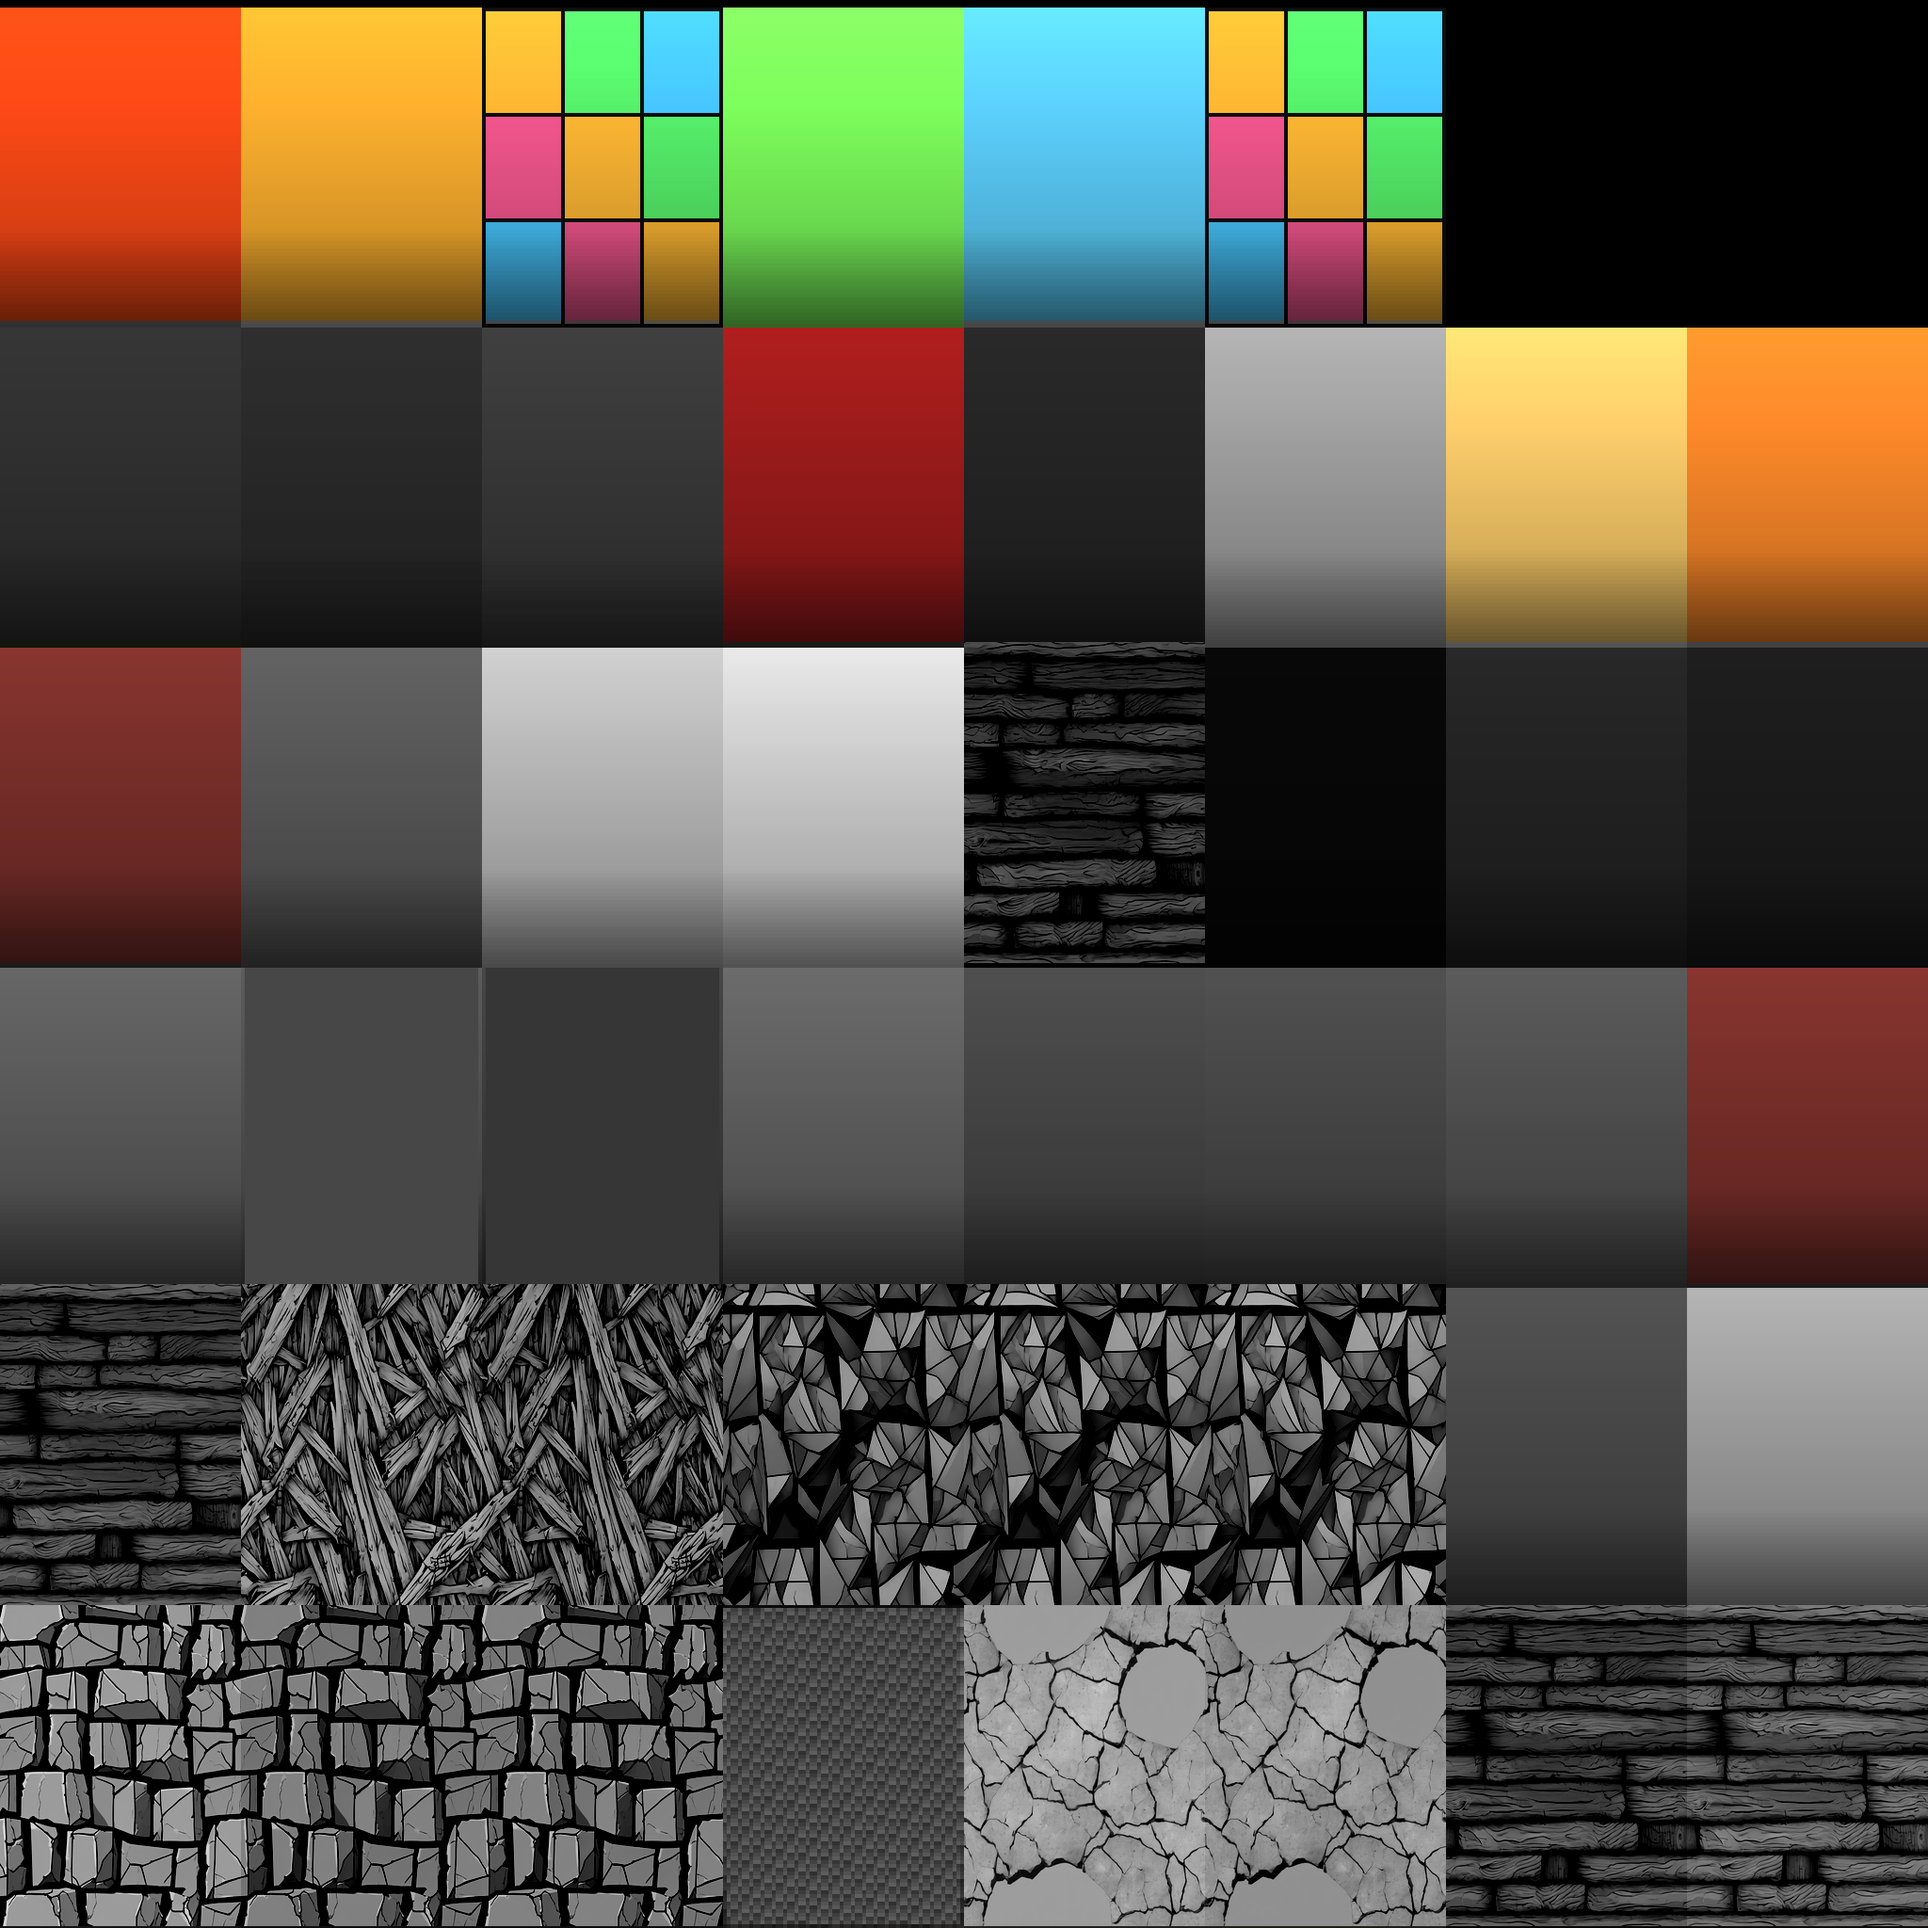
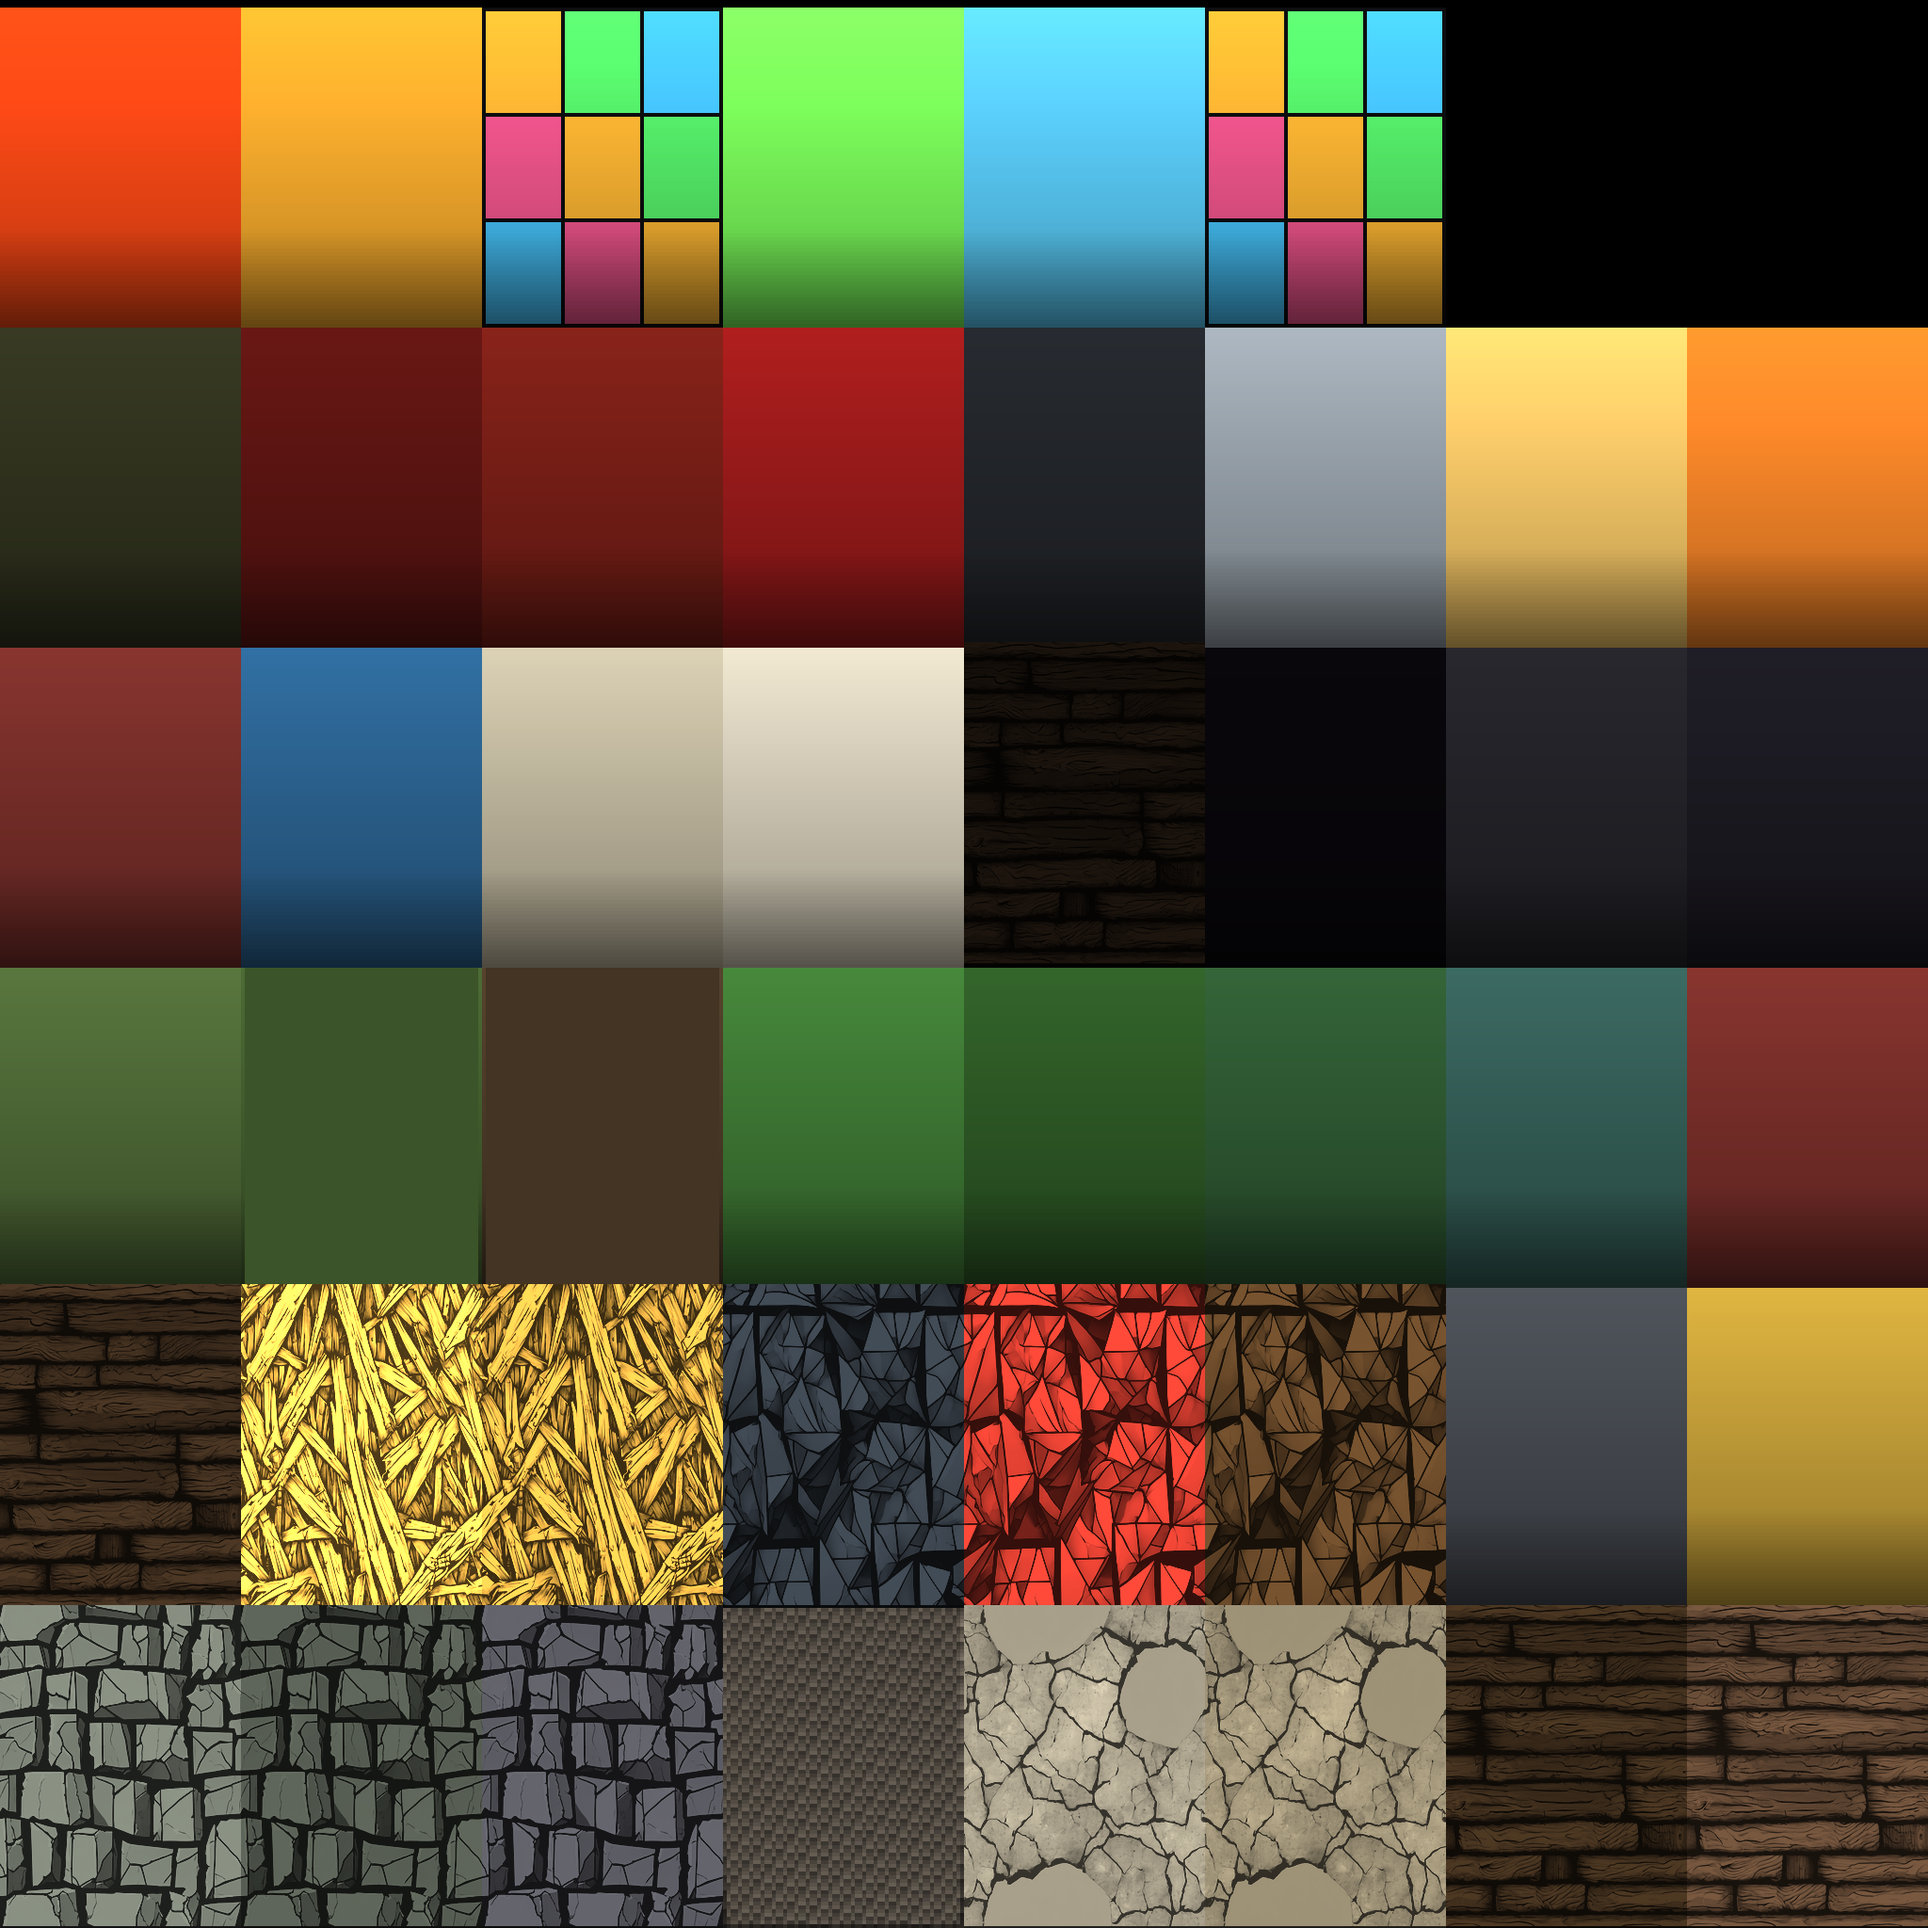
feat(kit): colour the sagaink materials (tinted inked detail, not grayscale)
Strict-grayscale read as flat + undifferentiated in-game (user: 'now it's all
just grey... we need more colors'). Recipe now TINTS each material's inked
linework + carved relief by a colour instead of desaturating to luminance:
- material cells multiply the ink detail by the swatch's own palette colour
  (stone stays neutral grey, wood brown, slate blue-grey) with per-material
  overrides: amber/gold straw (thatch), blood-red clay tile (roof_red).
- plain cells (foliage/cloth) keep their palette colour instead of desaturating,
  so grass/trees are green again. Emissive glows + red banners stay as accents.
Refreshed the shipped castle_kit_grimforge_v1 sagaink atlas via --kit so the kit
itself carries the coloured inked look.

diff --git a/tools/asset_generators/sagaink_kit/bake_sagaink_atlas.py b/tools/asset_generators/sagaink_kit/bake_sagaink_atlas.py
@@ -60,11 +60,21 @@ for n in STRAW:
     TEX_OF[n] = "thatch"
 TEX_OF["cobble"] = "stone"  # cobble ground reads as stone masonry
 
-# Cells that KEEP their colour as a deliberate accent. sagaink allows one accent
-# "per subject", so different subjects carry different single accents: the emissive
-# glows (window/fire/ember/gem/rune) AND the red banners/capes/cloth. Everything
-# structural still goes grayscale.
+# Cells kept verbatim (glows + red banners) as vivid accents.
 ACCENT = set(EMISSION) | {"crimson", "flag", "cloth_r"}
+
+# The kit stays COLOURED (not strict-grayscale sagaink): each material's inked
+# linework + carved relief is TINTED by a colour so surfaces differentiate and the
+# world isn't grey-on-grey. Most materials tint by their own palette swatch (stone
+# stays neutral grey, wood brown); these override to the vivid sagaink accents the
+# art calls for — amber/gold straw, blood-red clay roof tiles.
+_AMBER = np.array([224.0, 168.0, 66.0])   # golden straw
+_BLOOD = np.array([152.0, 44.0, 34.0])    # blood-red clay tile
+TINT = {
+    "thatch": _AMBER,
+    "thatch_dk": _AMBER * 0.78,
+    "roof_red": _BLOOD,
+}
 
 _LUMA = np.array([0.299, 0.587, 0.114], dtype=np.float32)
 
@@ -99,7 +109,6 @@ def bake(base_atlas: Path = BASE_ATLAS, out_prefix: str = "atlas_sagaink",
         cx = (i % COLS) * cw
         cy = (rows - 1 - i // COLS) * ch
         cell = base[cy : cy + ch, cx : cx + cw]  # source RGB for this swatch
-        L = _luma(cell)
 
         if name in ACCENT:
             continue  # keep the colour pop as-is (also drives the emit atlas)
@@ -118,14 +127,19 @@ def bake(base_atlas: Path = BASE_ATLAS, out_prefix: str = "atlas_sagaink",
                 g = np.roll(g, (dy, dx), axis=(0, 1))
                 nrm = np.roll(nrm, (dy, dx), axis=(0, 1))
                 aomap = np.roll(aomap, (dy, dx), axis=(0, 1))
-            target = float(L.mean())
-            toned = np.clip((g - g.mean()) * 1.12 + target, 0.0, 255.0)
-            color[cy : cy + ch, cx : cx + cw] = toned[..., None]
+            # tint the inked light/dark detail by the material colour (its own
+            # palette swatch, or an override) — coloured inked material, not grey
+            tint = TINT.get(name)
+            if tint is None:
+                tint = cell.reshape(-1, 3).mean(axis=0)  # the swatch's palette colour
+            ink = g / max(float(g.mean()), 1.0)                 # detail as a ~1.0 multiplier
+            ink = np.clip((ink - 1.0) * 1.35 + 1.0, 0.35, 1.7)  # punch the ink contrast
+            tinted = np.clip(tint[None, None, :] * ink[..., None], 0.0, 255.0)
+            color[cy : cy + ch, cx : cx + cw] = tinted
             normal[cy : cy + ch, cx : cx + cw] = nrm
             ao[cy : cy + ch, cx : cx + cw] = aomap
-        else:
-            # plain / foliage / metal / gravel -> keep tonal shading, drop hue
-            color[cy : cy + ch, cx : cx + cw] = L[..., None]
+        # else: plain / foliage / metal / gravel — keep the original colour swatch
+        # (color starts as base.copy()), so foliage green / cloth stay coloured
 
     out_dir.mkdir(parents=True, exist_ok=True)
     Image.fromarray(color.clip(0, 255).astype(np.uint8), "RGB").save(out_dir / f"{out_prefix}_color.png")
